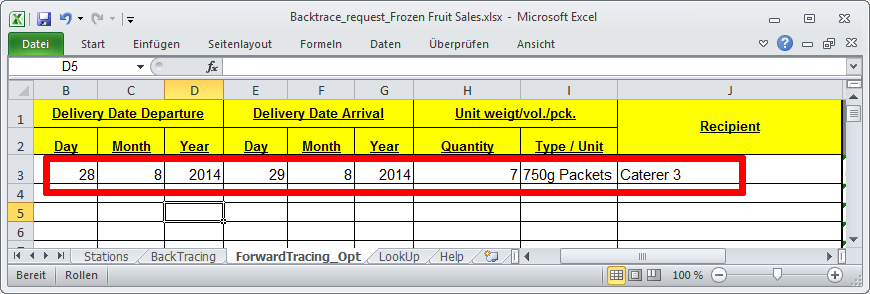
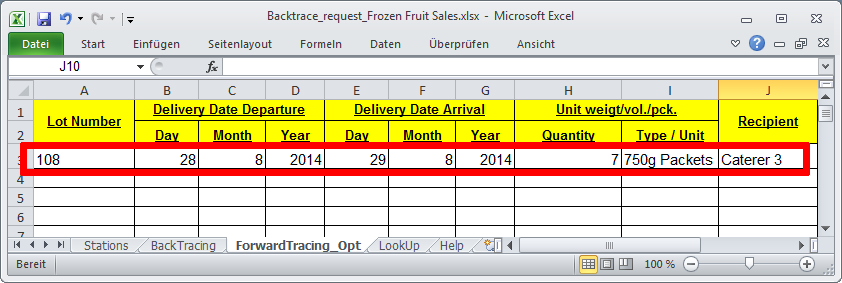
datacollecting tutorial updated

diff --git a/GitHubPages/documents/foodchainlab_datacollecting_2/datacollecting_2.tex b/GitHubPages/documents/foodchainlab_datacollecting_2/datacollecting_2.tex
@@ -18,7 +18,11 @@
 \subsection{Tasks}
 \begin{frame}
 	\begin{itemize}
-		\item
+		\item In this part of the tutorial we will do a back- and forward-tracing from the "Frozen Fruit Sales" station.
+		\item You can either complete part 1 of the tutorial or directly import the following files before starting this tutorial.
+		\item Start Template: \url{https://github.com/SiLeBAT/BfROpenLabResources/raw/master/GitHubPages/documents/Start_Tracing_Caterers.xlsx}
+		\item Caterer 1 Template: \url{https://github.com/SiLeBAT/BfROpenLabResources/raw/master/GitHubPages/documents/Backtrace_request_Caterer 1.xlsx}
+		\item Caterer 2 Template: \url{https://github.com/SiLeBAT/BfROpenLabResources/raw/master/GitHubPages/documents/Backtrace_request_Caterer 2.xlsx}
 	\end{itemize}
 \end{frame}
  
@@ -28,7 +32,8 @@
   		\includegraphics[height=0.6\textheight]{1.png}
 	\end{center}
 	\begin{itemize}
-		\item Select \textbf{Food-Lab $>$ Open DB Gui...} in the menu bar to open the database dialog.
+		\item You should have the database dialog open.
+		\item Press the button for generating backtracing templates, which is marked by the red circle.
 	\end{itemize}
 \end{frame}
 
@@ -38,7 +43,7 @@
   		\includegraphics[width=0.4\textwidth]{2.png}
 	\end{center}
 	\begin{itemize}
-		\item
+		\item Since we want to do the backtracing for the supplier "Frozen Fruit Sales", select \textbf{Supplier} only and press \textbf{OK}.
 	\end{itemize}
 \end{frame}
 
@@ -48,7 +53,8 @@
   		\includegraphics[height=0.5\textheight]{3.png}
 	\end{center}
 	\begin{itemize}
-		\item
+		\item In the file dialog that appears, you can specify the where the generated templates should be saved.
+		\item Select the desired folder and press \textbf{Save}.
 	\end{itemize}
 \end{frame}
 
@@ -58,7 +64,8 @@
   		\includegraphics[width=0.8\textwidth]{4.png}
 	\end{center}
 	\begin{itemize}
-		\item
+		\item You'll be noticed, that one template was generated in the folder you specified.
+		\item Press \textbf{OK}.
 	\end{itemize}
 \end{frame}
 
@@ -68,7 +75,9 @@
   		\includegraphics[width=0.95\textwidth]{5.png}
 	\end{center}
 	\begin{itemize}
-		\item
+		\item Open the generated template "Backtrace\_request\_Frozen Fruit Sales.xlsx".
+		\item Add the stations from the screenshot to the \textbf{Stations} sheet.
+		\item These station include 3 strawberry suppliers that delivered strawberries to "Frozen Fruit Sales" and also a caterer that received strawberries.
 	\end{itemize}
 \end{frame}
 
@@ -78,7 +87,8 @@
   		\includegraphics[width=0.95\textwidth]{6.png}
 	\end{center}
 	\begin{itemize}
-		\item
+		\item In the \textbf{BackTracing} sheet you can see the three outgoing deliveries of "Frozen Fruit Sales".
+		\item These deliveries belong to lots "108" and "139".
 	\end{itemize}
 \end{frame}
 
@@ -88,7 +98,8 @@
   		\includegraphics[width=0.95\textwidth]{7.png}
 	\end{center}
 	\begin{itemize}
-		\item
+		\item Now scroll to the \textbf{Ingredients for Lot(s)} table.
+		\item Enter the 3 deliveries, that were used as ingredients for lot "108", from the screenshot.
 	\end{itemize}
 \end{frame}
 
@@ -98,7 +109,9 @@
   		\includegraphics[width=0.95\textwidth]{8.png}
 	\end{center}
 	\begin{itemize}
-		\item
+		\item Lot "108" was not only delivered to "Caterer 1" and "Caterer 2", but also to a third caterer.
+		\item We can add this information in the \textbf{ForwardTracing\_Opt} sheet.
+		\item Enter the delivery to "Caterer 3" from the screenshot.
 	\end{itemize}
 \end{frame}
 
@@ -108,7 +121,7 @@
   		\includegraphics[height=0.6\textheight]{9.png}
 	\end{center}
 	\begin{itemize}
-		\item
+		\item To import this file click on the \textbf{Table import} button in the upper left corner of the database dialog.
 	\end{itemize}
 \end{frame}
 
@@ -118,7 +131,7 @@
   		\includegraphics[height=0.5\textheight]{10.png}
 	\end{center}
 	\begin{itemize}
-		\item
+		\item In the file dialog that appears, select "Backtrace\_request\_Frozen Fruit Sales.xlsx" and press \textbf{Open}.
 	\end{itemize}
 \end{frame}
 
@@ -128,7 +141,8 @@
   		\includegraphics[width=0.7\textwidth]{11.png}
 	\end{center}
 	\begin{itemize}
-		\item
+		\item You'll be notified, that some warnings occurred during import.
+		\item Press \textbf{Show Details} to have at look at the warnings.
 	\end{itemize}
 \end{frame}
 

diff --git a/GitHubPages/documents/foodchainlab_datacollecting_1/datacollecting_1.tex b/GitHubPages/documents/foodchainlab_datacollecting_1/datacollecting_1.tex
@@ -18,9 +18,9 @@
 \subsection{Tasks}
 \begin{frame}
 	\begin{itemize}
-		\item In this tutorial we show you how import delivery data to FoodChain-Lab via our Excel templates.
+		\item In this tutorial we'll show you how to import delivery data to FoodChain-Lab via our Excel templates.
 		\item We will first import the inital data for the outbreak locations and the successively add the delivery data for caterers and other suppliers via auto-generated back- and forward-tracing templates.
-		\item In FoodChain-Lab it is also possible to import the whole delivery network from one Excel file, but procedure is not documented here. The "All In One" template can be downloaded from here: \url{https://github.com/SiLeBAT/BfROpenLabResources/raw/master/GitHubPages/templates/All_In_One_Template.xlsx}.
+		\item In FoodChain-Lab it is also possible to import the whole delivery network from one Excel file, but the procedure is not documented here. The "All In One" template can be downloaded from here: \url{https://github.com/SiLeBAT/BfROpenLabResources/raw/master/GitHubPages/templates/All_In_One_Template.xlsx}.
 	\end{itemize}
 \end{frame}
  
